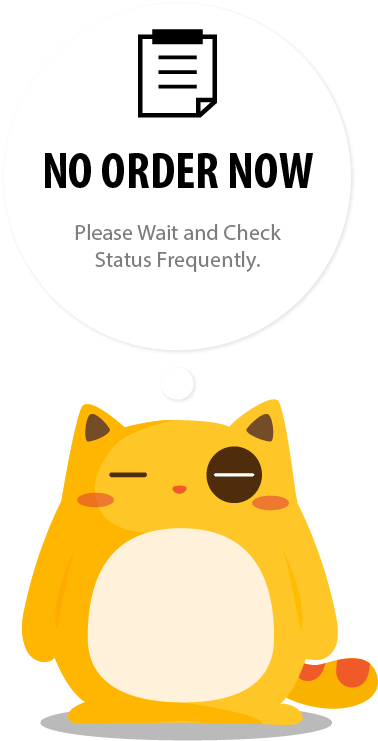
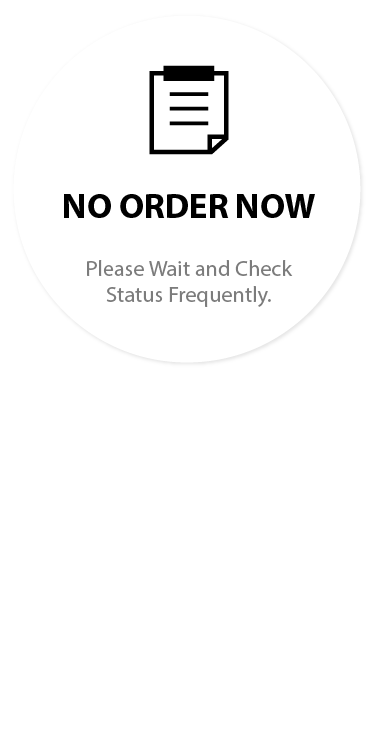
remove chanmao

diff --git a/App/Components/About/About.js b/App/Components/About/About.js
@@ -46,46 +46,13 @@ export default class About extends Component {
   constructor() {
     super();
     this._logout = this._logout.bind(this);
-    this._jumpGuide = this._jumpGuide.bind(this);
   }
   async _logout() {
     this.props.showLogin();
     this.props.goOffline();
     await Auth.AppLogout();
   }
-  _jumpGuide() {
-    if (Platform.OS === 'ios'){
-      let titles = docsArray.map(item => item.title);
-      titles.push('取消');
-      ActionSheetIOS.showActionSheetWithOptions({
-        options: titles,
-        tintColor: '#f68a1d',
-        cancelButtonIndex: docsArray.length,
-      },
-      async (buttonIndex) => {
-        if (buttonIndex < docsArray.length){
-          Linking.openURL(fileServer + docsArray[buttonIndex].file);
-        }
-      });
-    }
-    else{
-      let buttons = docsArray.map(
-        function(item) {
-          return {
-            text: item.title,
-            onPress: async () => {
-              Linking.openURL(fileServer + item.file);
-            }
-          };
-        });
-      Alert.alert(
-        '请选择需要查看的文档',
-        null,
-        buttons,
-        { cancelable: false }
-      )
-    }
-  }
+
 
   render() {
     return (<View style={styles.container}>
@@ -102,39 +69,6 @@ export default class About extends Component {
           backgroundColor: '#efefef'
         }}>
 
-        <TouchableOpacity onPress={this._jumpGuide}>
-          <View style={{
-              alignItems: 'center',
-              backgroundColor: 'white',
-              flexDirection: 'row',
-              marginTop: 0.04 * height,
-              marginLeft: 12,
-              marginRight: 12,
-              height: 0.12 * height,
-              flexDirection: 'row',
-              borderWidth: 2,
-              borderColor: 'grey',
-              borderStyle: 'dashed',
-              borderRadius: 4,
-              justifyContent: 'center'
-            }}>
-            <Text allowFontScaling={false}
-            style={{
-                color: '#a4afc0',
-                fontSize: 18,
-                fontFamily:'FZZhunYuan-M02S'
-              }}>
-              Chanmao driver's guide
-            </Text>
-            <Image style={{
-                height: 70,
-                width: 70,
-                marginLeft: 15,
-                justifyContent: 'flex-end'
-              }} source={require('./Image/flash.png')}/>
-          </View>
-
-        </TouchableOpacity>
 
         <TouchableOpacity onPress={this._logout}>
           <View style={{

diff --git a/App/Components/History/History.js b/App/Components/History/History.js
@@ -180,15 +180,15 @@ export default class History extends Component {
     }
   }
   setDate(dateStr) {
+    console.log(dateStr)
     if(this.state.current) {
       this.setState({
         iv_start: dateStr,
       })
-    }else if (!this.state.current) {
+    } else if (!this.state.current) {
       this.setState({
         iv_end: dateStr,
       })
-
     }
   }
   _handleTimeSelected(date) {
@@ -214,12 +214,10 @@ export default class History extends Component {
      this.setState({
       modalVisible:true,
      })
-    } else {
+    } else if (Platform.OS == 'android') {
     try {
       const {action, year, month, day} = await DatePickerAndroid.open({
-        // Use `new Date()` for current date.
-        // May 25 2020. Month 0 is January.
-        date: new Date(this.state.complete_time)
+        date: new Date()
       });
       if (action !== DatePickerAndroid.dismissedAction) {
         // Selected year, month (0-11), day

diff --git a/App/Components/Login/Login.js b/App/Components/Login/Login.js
@@ -234,7 +234,7 @@ export default class MyComponent extends Component {
                           alignSelf: 'flex-start',
                           fontFamily:'FZZhunYuan-M02S' }}
             >
-              ChanMao Driver
+               Deliver App
             </Text>
         </Animated.View>
       );
@@ -341,7 +341,7 @@ export default class MyComponent extends Component {
           <Text allowFontScaling={false}
               style={{ marginBottom: 5, fontFamily:'FZZhunYuan-M02S' }}
           >
-            v1.6.4
+            v1.6.6
           </Text>
           <Text allowFontScaling={false}
               style={{ fontSize: 11, fontFamily:'FZZhunYuan-M02S'}}

diff --git a/App/Modules/HistoryModule/CmDriverHistoryModule.js b/App/Modules/HistoryModule/CmDriverHistoryModule.js
@@ -4,6 +4,7 @@ import Auth from '../AuthModule/Auth';
 export default  {
   async getHistory(startTime, endTime) {
     try {
+      console.log(startTime, endTime)
       const start_time =  Date.parse(startTime)/1000 + 60*60*7;
       const end_time = Date.parse(endTime)/1000 + 60*60*31;
       const token = await Auth.getToken();
@@ -12,7 +13,9 @@ export default  {
         start_time,
         end_time
       }
+      console.log(reqData)
       const res = await CmDriverHistoryAPI.getHistory(reqData);
+      console.log(res)
       if(res.ev_error == 0 ){
         return res.result
       } else {

diff --git a/App/Components/Home/Home.js b/App/Components/Home/Home.js
@@ -772,7 +772,7 @@ class Home extends Component {
                                      color:'#475464',
                                      opacity:this._infoContentOpacity}}
                               allowFontScaling={false}>
-                  Chanmao Driver
+                   Deliver App
               </Animated.Text>
               <TouchableOpacity activeOpacity={0.6}
                                 onPress={this._goOnline}

diff --git a/App/Constants/AppConstants.js b/App/Constants/AppConstants.js
@@ -85,5 +85,5 @@ module.exports ={
     //Home
     GET_HOME_DATA:'GET_HOME_DATA',
 
-    CMVERSION:'v1.6.4',
+    CMVERSION:'v1.6.6',
 }
